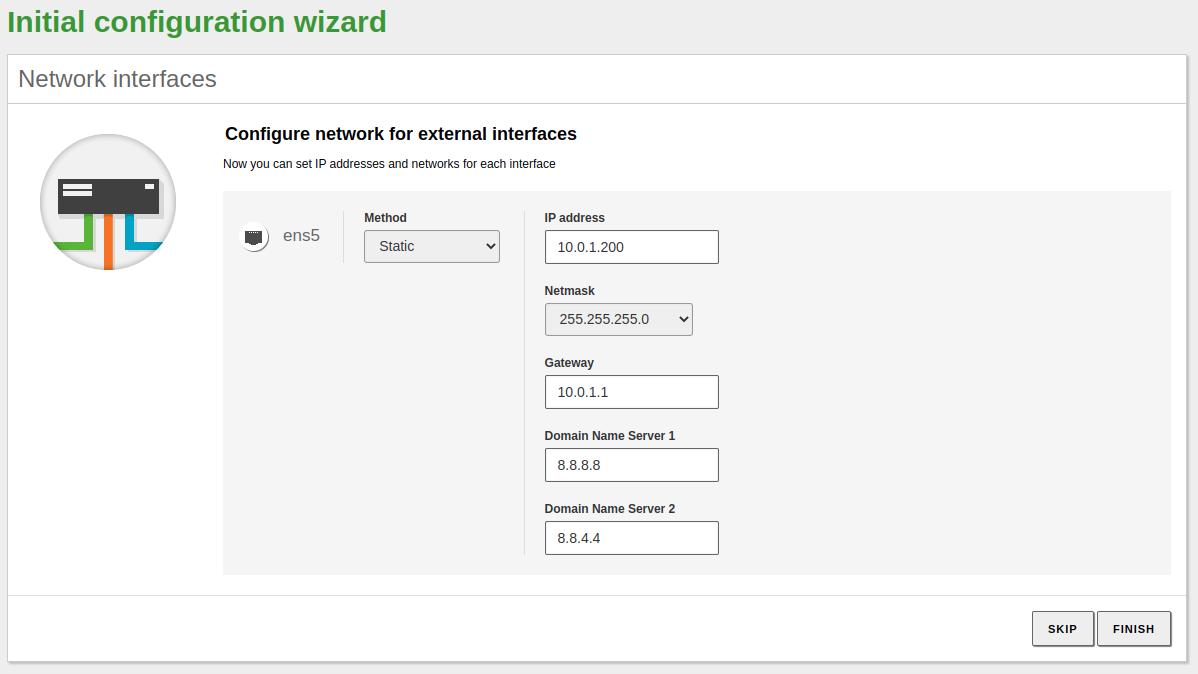
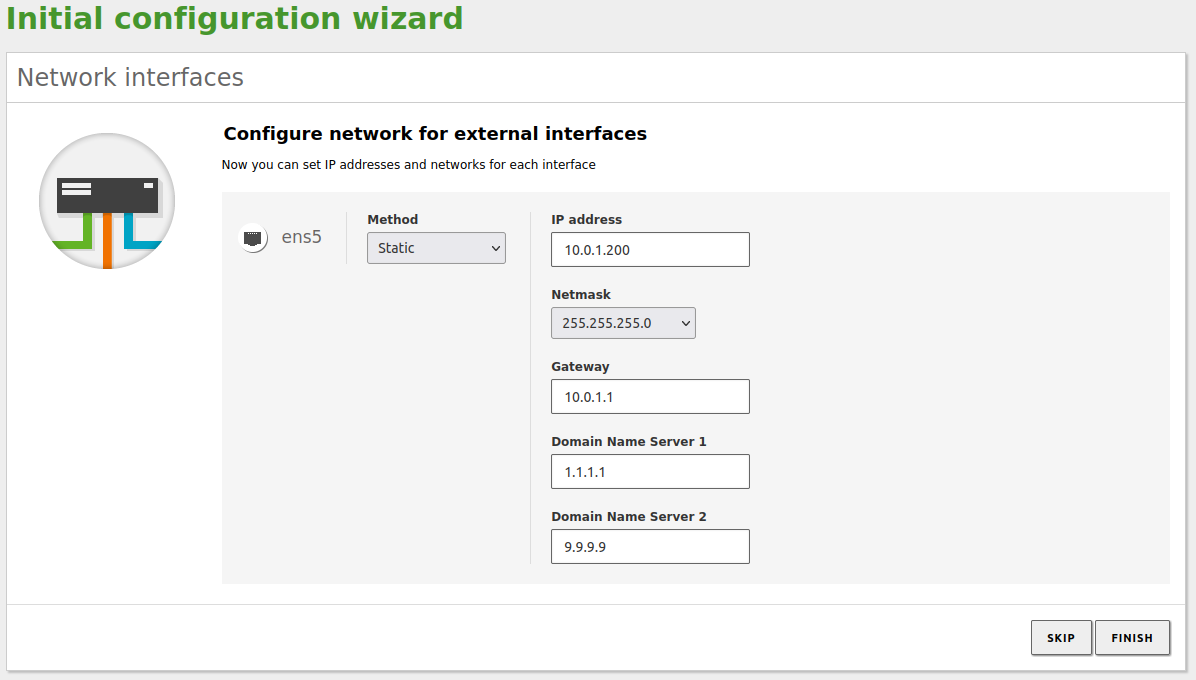
Cambios en la doc de instalacion

diff --git a/docs/zentyal-installation.md b/docs/zentyal-installation.md
@@ -40,45 +40,59 @@ Las acciones que procederemos a realizar son:
     ssh -i KP-Prod-Zentyal.pem ubuntu@arthas.icecrown.es
     ```
 
-2. Actualizamos los paquetes del servidor:
+2. Establecemos una contraseña para el usuario `root`:
+
+    ```bash
+    sudo passwd root
+    ```
+
+3. Actualizamos los paquetes del servidor:
 
     ```bash
     sudo apt update
     sudo apt dist-upgrade -y
     ```
 
-3. Nos creamos un usuario administrador adicional, el cual usaremos para administrar Zentyal desde la interfaz de administración:
+4. Nos creamos un usuario administrador adicional, el cual usaremos para administrar Zentyal desde la interfaz de administración:
 
     ```bash
-    sudo useradd -m -d /home/djoven -G sudo -s /bin/bash djoven
+    sudo useradd -m -d /home/djoven -G sudo -s /bin/bash -c 'Sysadmin' djoven
     sudo passwd djoven
     ```
 
     **NOTA:** Es importante que el usuario pertenezca al grupo `sudo`, de lo contrario no podremos usarlo para acceder a la interfaz de administración.
 
-4. Nos logeamos con el usuario recién creado, creamos el directorio y archivo necesarios para alojar nuestra clave pública para poder conectarnos vía SSH y finalmente, añadimos el contenido de nuestra clave pública:
+5. Nos logeamos con el usuario recién creado:
 
     ```bash
     su - djoven
-    mkdir -v .ssh
-    touch .ssh/authorized_keys
-    vim .ssh/authorized_keys  ## Añadiremos el contenido de nuestra clave pública
     ```
 
-5. Creamos un directorio donde almacenaremos el script de instalación de Zentyal:
+6. Creamos el directorio y archivo necesarios para alojar nuestra clave pública para poder conectarnos vía SSH:
+
+    ```bash
+    mkdir -v .ssh
+    touch .ssh/authorized_keys
+    ```
+
+7. Finalmente, añadimos el contenido de nuestra clave pública al archivo recién creado `.ssh/authorized_keys`:
+
+A partir de este momento, el servidor estará listo para instalar Zentyal 7.0. A continuación las acciones a realizar para su instalación:
+
+1. Creamos un directorio donde almacenaremos el script de instalación de Zentyal:
 
     ```bash
     sudo mkdir /opt/zentyal-install
     ```
 
-6. Nos descargamos el script y le damos los permisos adecuados:
+2. Nos descargamos el script y le damos los permisos adecuados:
 
     ```bash
     sudo wget -O /opt/zentyal-install/zentyal_installer.sh https://zentyal.com/zentyal_installer.sh
     sudo chmod 0750 /opt/zentyal-install/zentyal_installer.sh
     ```
 
-7. Instalamos Zentyal a través del script:, contestando `n` a la pregunta sobre la instalación del entorno gráfico:
+3. Instalamos Zentyal a través del script:, contestando `n` a la pregunta sobre la instalación del entorno gráfico:
 
     ```bash
     sudo bash /opt/zentyal-install/zentyal_installer.sh
@@ -94,28 +108,28 @@ Las acciones que procederemos a realizar son:
 
     **NOTA:** Llegados a este punto, no podemos reiniciar el servidor hasta haber instalado y configurado el módulo de red, de lo contrario, el servidor se iniciará sin una dirección IP y por lo tanto, perderemos su acceso.
 
-8. Una vez que el script haya terminado, nos logeamos al panel de administración de Zentyal: <https://arthas.icecrown.es:8443>
+4. Una vez que el script haya terminado, nos logeamos al panel de administración de Zentyal: <https://arthas.icecrown.es:8443>
 
     **NOTA:** En caso de que no hayamos creado el registro `A` en el DNS, usaremos la dirección IP pública de la instancia.
 
-9. Nos logeamos con el usuario administrador que hemos creado previamente, que en mi caso es `djoven`.
+5. Nos logeamos con el usuario administrador que hemos creado previamente, que en mi caso es `djoven`.
 
-10. En el wizard de configuración inicial, únicamente instalaremos el módulo de [firewall], de esta forma se nos instalará como dependencia el módulo de [network] a su vez.
+6. En el wizard de configuración inicial, únicamente instalaremos el módulo de [firewall], de esta forma se nos instalará como dependencia el módulo de [network] a su vez.
 
     ![Initial wizard - Packages](images/zentyal/01-wizard_packages.png "Initial wizard - Packages")
 
-11. Configuramos la tarjeta de red como `estática` e `internal`:
+7. Configuramos la tarjeta de red como `estática` e `internal`:
 
     ![Initial wizard - Network 1](images/zentyal/02-wizard_network-1.png "Initial wizard - Network 1")
     ![Initial wizard - Network 2](images/zentyal/03-wizard_network-2.png "Initial wizard - Network 2")
 
     **NOTA:** Es posible que al terminar de configurarse la red, se nos reproduzca el bug reportado [aquí]. Si es el caso, simplemente modificar la URL por: <https://arthas.icecrown.es:8443>
 
-12. Una vez que se haya terminado de guardar cambios, podremos empezar a gestionar Zentyal a través del dashboard.
+8. Una vez que se haya terminado de guardar cambios, podremos empezar a gestionar Zentyal a través del dashboard.
 
     ![Zentyal initial dashboard](images/zentyal/04-dashboard_initial.png "Zentyal initial dashboard")
 
-13. Finalmente, antes de procedes a configurar el servidor, realizaremos las siguientes comprobaciones para confirmar la estabilidad del servidor:
+9. Finalmente, antes de procedes a configurar el servidor, realizaremos las siguientes comprobaciones para confirmar la estabilidad del servidor:
 
     1. Nos aseguramos que todos los módulos estén habilitados (`Modules Status`).
     2. Que la máquina tenga acceso a Internet.
@@ -140,8 +154,8 @@ Las acciones que procederemos a realizar son:
         2022/10/23 08:20:49 INFO> install-packages:121 main:: - Package installation process finished
         2022/10/23 08:23:15 INFO> Network.pm:89 EBox::Network::CGI::Wizard::Network::_processWizard - Configuring ens5 as 10.0.1.200/255.255.255.0
         2022/10/23 08:23:15 INFO> Network.pm:93 EBox::Network::CGI::Wizard::Network::_processWizard - Adding gateway 10.0.1.1 for iface ens5
-        2022/10/23 08:23:15 INFO> Network.pm:108 EBox::Network::CGI::Wizard::Network::_processWizard - Adding nameserver 8.8.8.8
-        2022/10/23 08:23:15 INFO> Network.pm:114 EBox::Network::CGI::Wizard::Network::_processWizard - Adding nameserver 8.8.4.4
+        2022/10/23 08:23:15 INFO> Network.pm:108 EBox::Network::CGI::Wizard::Network::_processWizard - Adding nameserver 1.1.1.1
+        2022/10/23 08:23:15 INFO> Network.pm:114 EBox::Network::CGI::Wizard::Network::_processWizard - Adding nameserver 9.9.9.9
         2022/10/23 08:23:17 INFO> GlobalImpl.pm:571 EBox::GlobalImpl::saveAllModules - First installation, enabling modules: network firewall webadmin logs audit firewall
         2022/10/23 08:23:17 INFO> GlobalImpl.pm:574 EBox::GlobalImpl::saveAllModules - Enabling module network
         2022/10/23 08:23:17 INFO> GlobalImpl.pm:574 EBox::GlobalImpl::saveAllModules - Enabling module firewall
@@ -163,10 +177,11 @@ Las acciones que procederemos a realizar son:
     4. Reiniciamos el servidor para asegurarnos de que es capaz de iniciar sin ningún tipo de problema de red.
 
         ```bash
-        reboot
+        sudo reboot
         ```
 
     5. Verificamos que podemos conectarnos a través de SSH y a la interfaz de administración de Zentyal.
 
 [firewall]: https://doc.zentyal.org/es/firewall.html
 [network]: https://doc.zentyal.org/es/firststeps.html#configuracion-basica-de-red-en-zentyal
+[aquí]: https://github.com/zentyal/zentyal/issues/2100
